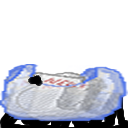
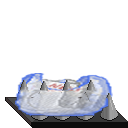
New items & textures

diff --git a/Brainless/Brainless/BookShelfItem.cpp b/Brainless/Brainless/BookShelfItem.cpp
@@ -1,0 +1,33 @@
+#include "BookShelfItem.h"
+#include "ResourceLoader.h"
+#include "Renderer.h"
+#include "ItemDatabase.h"
+#include "Unit.h"
+#include "Game.h"
+#include <iostream>
+
+BookShelfItem::BookShelfItem(int id)
+:
+Item("Bookshelf", "bookShelf", "bookShelf", id)
+{
+	m_usable = true;
+	m_collidable = true;
+
+	m_collisionBounds = sf::FloatRect(61, 12, 136, 229);
+	m_interactBounds = m_collisionBounds;
+}
+
+void BookShelfItem::onExamine()
+{
+	m_examineString = "It looks like a shelf, it appears to be filled with books. \nBooks are collections of paper which contain information in the form of text.";
+}
+
+void BookShelfItem::draw()
+{
+	Renderer::instance().drawDepth(getSprite());
+}
+
+Item* BookShelfItem::clone()
+{
+	return new BookShelfItem(*this);
+}

diff --git a/Brainless/Brainless/ItemDatabase.cpp b/Brainless/Brainless/ItemDatabase.cpp
@@ -42,6 +42,8 @@
 #include "StuffedPaperBagItem.h"
 #include "NewspaperItem.h"
 #include "EmptyBagItem.h"
+#include "BookShelfItem.h"
+#include "CrateItem.h"
 
 ItemDatabase::ItemDatabase()
 {
@@ -112,7 +114,8 @@ ItemDatabase::ItemDatabase()
 	addItem(ItemPtr(new StuffedPaperBagItem(42)));
 	addItem(ItemPtr(new NewspaperItem(43)));
 	addItem(ItemPtr(new EmptyBagItem(44)));
-
+	addItem(ItemPtr(new BookShelfItem(45)));
+	addItem(ItemPtr(new CrateItem(46)));
 }
 
 void ItemDatabase::addItem(ItemPtr itemPtr)

diff --git a/Brainless/Brainless/BookShelfItem.h b/Brainless/Brainless/BookShelfItem.h
@@ -1,0 +1,20 @@
+#ifndef INCLUDED_BOOKSHELF_ITEM_H
+#define INCLUDED_BOOKSHELF_ITEM_H
+
+#include "Item.h"
+
+class BookShelfItem : public Item
+{
+public:
+	BookShelfItem(int id);
+
+	virtual void onExamine();
+
+	virtual void draw();
+
+	virtual Item* clone();
+private:
+	std::vector<int> m_itemsWithin;
+};
+
+#endif

diff --git a/Brainless/Brainless/CrateItem.h b/Brainless/Brainless/CrateItem.h
@@ -1,0 +1,20 @@
+#ifndef INCLUDED_CRATE_ITEM_H
+#define INCLUDED_CRATE_ITEM_H
+
+#include "Item.h"
+
+class CrateItem : public Item
+{
+public:
+	CrateItem(int id);
+
+	virtual void onExamine();
+
+	virtual void draw();
+
+	virtual Item* clone();
+private:
+	std::vector<int> m_itemsWithin;
+};
+
+#endif
